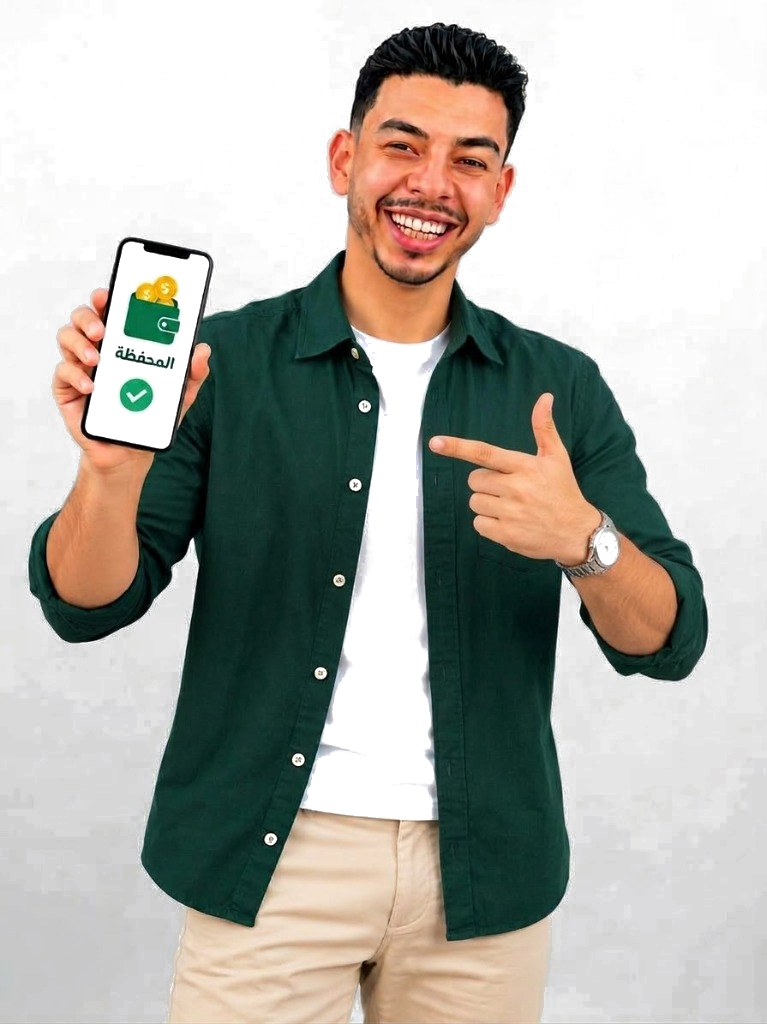
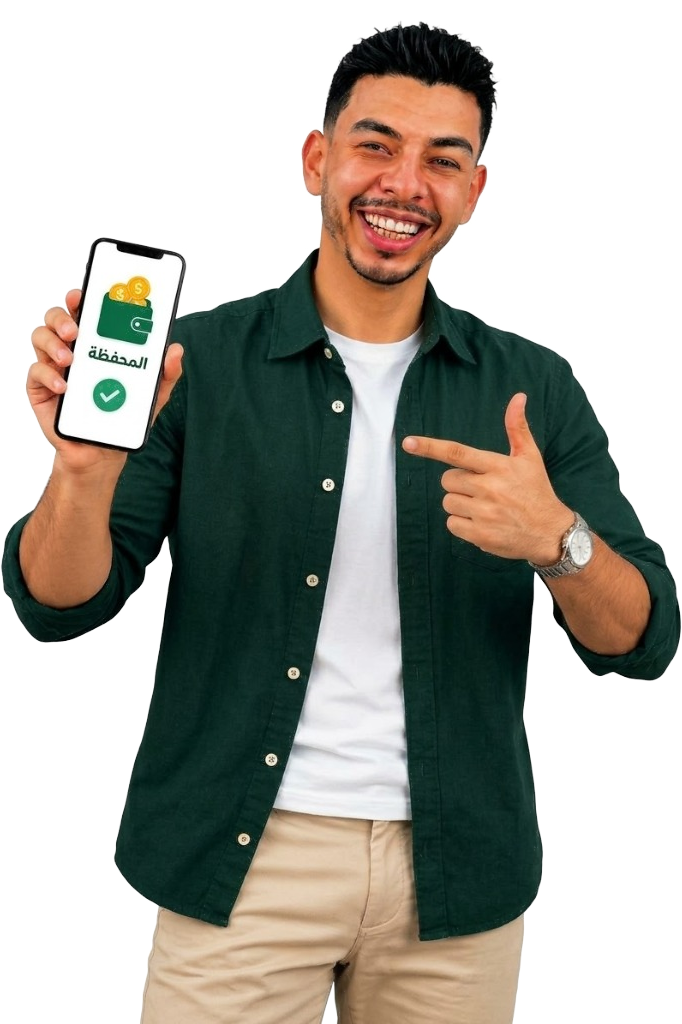
feat: refine Card 4 cutout with perfect dual matting for Light & Dark mode transparency

diff --git a/apps/web/src/components/home/FeaturesSection.tsx b/apps/web/src/components/home/FeaturesSection.tsx
@@ -54,7 +54,7 @@ export default function FeaturesSection() {
       id: 4,
       title: t('features.walletTitle', 'محفظة شحن كروت المنصة'),
       description: t('features.walletDesc', 'سهولة الاشتراك وشحن الحساب عبر جميع وسائل الدفع المباشرة أو المحافظ الإلكترونية.'),
-      image: '/assets/features/feature-1-cutout.png?v=20261001_v80'
+      image: '/assets/features/feature-1-cutout.png?v=20261001_v100'
     }
   ];
 
